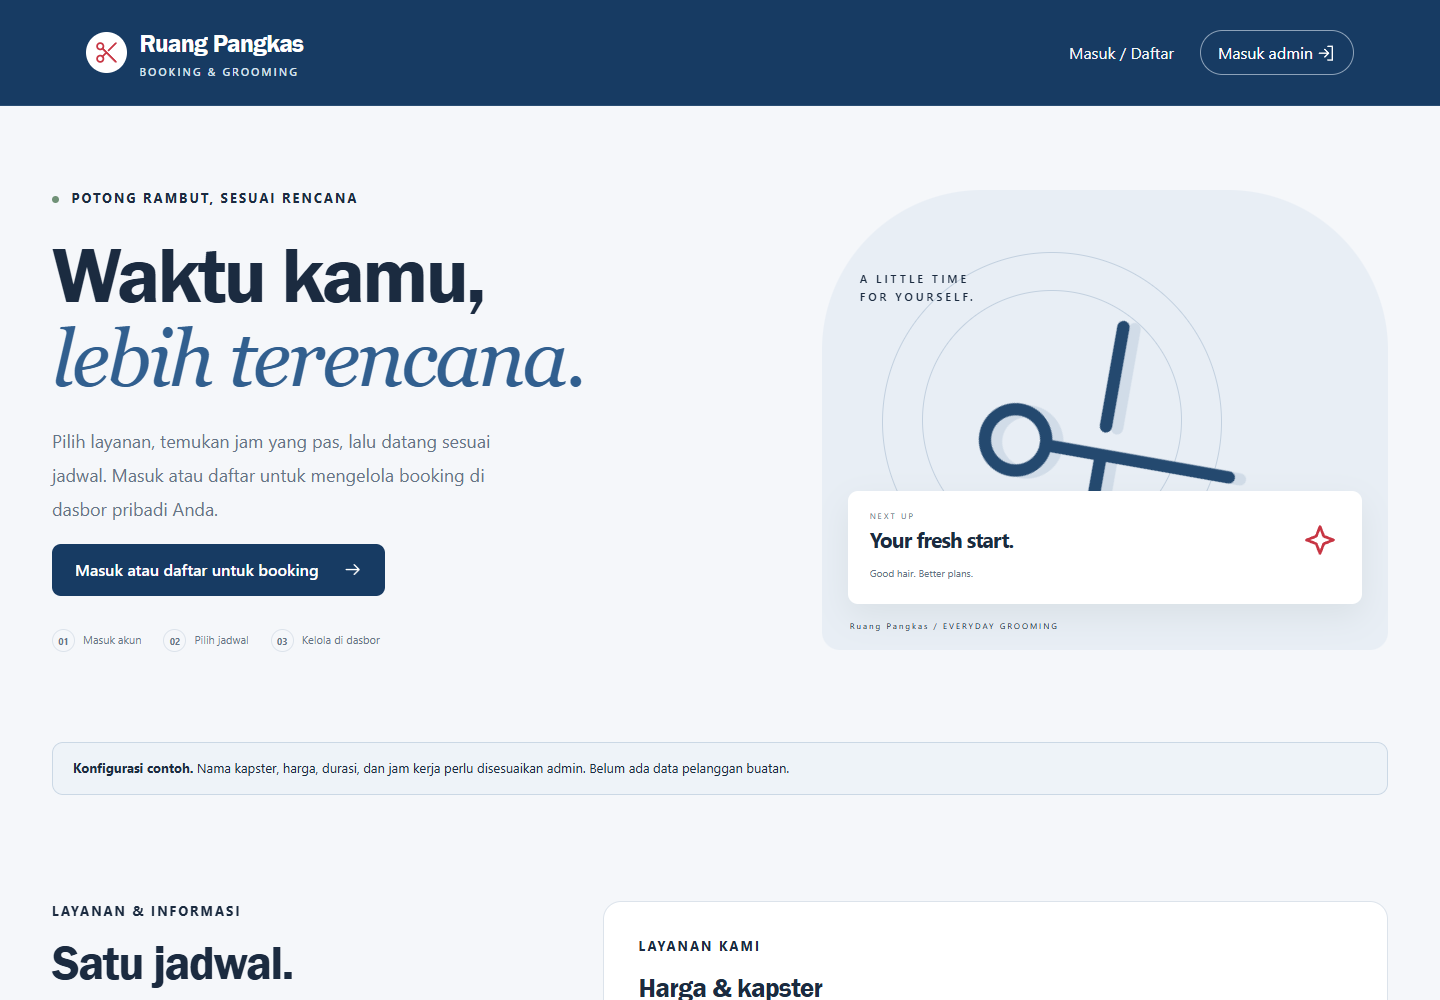
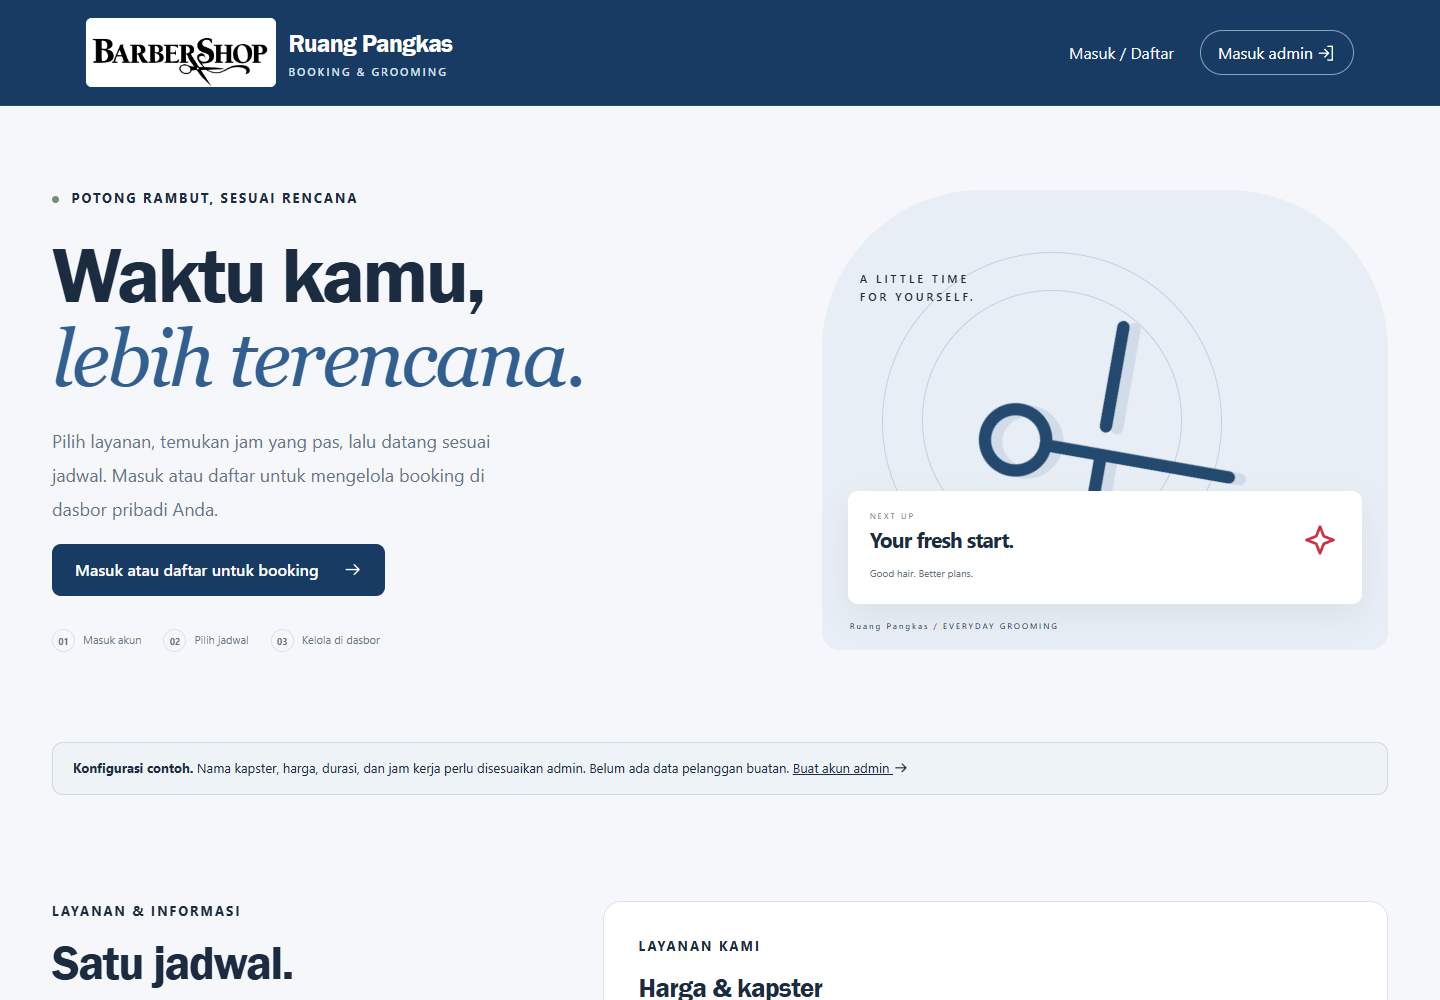
udabh

Changed region(s): [[0.0625, 0.0, 0.3125, 0.093], [0.5625, 0.744, 0.625, 0.775]]

diff --git a/templates/base.html b/templates/base.html
@@ -5,7 +5,7 @@
         <meta charset="utf-8">
         <meta name="viewport" content="width=device-width,initial-scale=1">
         {% if is_admin %}<link rel="manifest" href="{{ url_for('manifest') }}">{% endif %}
-        <title>{% block title %}{{ shop.shop_name }}{% endblock %} · Booking Pangkas</title>
+        <title>{% block title %}{{ shop.shop_name }}{% endblock %} Â· Booking Pangkas</title>
         <link rel="stylesheet" href="{{ url_for('static',filename='style.css',v=asset_version) }}">
         <script src="{{ url_for('static',filename='app.js',v=script_version) }}" defer></script>
     </head>
@@ -15,10 +15,9 @@
             <input type="hidden" name="csrf" value="{{ csrf() }}">
         {% endmacro %}
         <header class="topbar">
-            <a class="brand" href="{{ url_for('home') }}">
-                <span class="brand-mark" aria-hidden="true">{{ icon("scissors") }}</span>
-                <span>{{ shop.shop_name }}<small>BOOKING & GROOMING</small>
-                </span>
+            <a class="brand" href="{{ url_for('home') }}" aria-label="{{ shop.shop_name }} — Beranda">
+                <img class="brand-logo" src="{{ url_for('static', filename='logo-barbershop.png') }}" alt="BarberShop" width="1178" height="422">
+                <span class="brand-name">{{ shop.shop_name }}<small>BOOKING & GROOMING</small></span>
             </a>
             <nav>
                 {% if request.path.startswith('/admin') %}
@@ -53,7 +52,7 @@
                             <span>{{ icon(icon_name) }}</span>{{ label }}</a>
                     {% endfor %}
                     <div class="sidebar-note">
-                        <span class="status-dot"></span> {{ 'Online' if database_online else 'Lokal' }} · WIB
+                        <span class="status-dot"></span> {{ 'Online' if database_online else 'Lokal' }} Â· WIB
                         <p>{{ 'Data tersimpan di Turso.' if database_online else 'Data tersimpan di laptop ini.' }}</p>
                         <small>Email: {{ 'simulasi' if mail_mode=='demo' else 'SMTP' }}</small>
                     </div>
@@ -74,7 +73,7 @@
         <footer>
             <span>{{ shop.shop_name }} <span class="muted">/ Sistem Booking Pangkas Rambut Cerdas</span>
             </span>
-            <span>Proyek Sains Data Industri · Waktu Indonesia Barat</span>
+            <span>Proyek Sains Data Industri Â· Waktu Indonesia Barat</span>
         </footer>
     </body>
 </html>

diff --git a/templates/booking.html b/templates/booking.html
@@ -16,7 +16,7 @@
     <div class="detail-grid">
         <section class="panel booking-ticket">
             <div class="ticket-head">
-                <span class="brand-mark" aria-hidden="true">{{ icon("scissors") }}</span>
+                <img class="ticket-logo" src="{{ url_for('static', filename='logo-barbershop.png') }}" alt="BarberShop" width="1178" height="422">
                 <span class="badge {{ b.status }}">{{ status_labels[b.status] }}</span>
             </div>
             <span class="eyebrow">{{ b.code }}</span>
@@ -89,7 +89,7 @@
                 </form>
             {% else %}
                 <div class="empty-state">
-                    <span>◷</span>
+                    <span>â—·</span>
                     <h3>{{ 'Batas perubahan mandiri sudah lewat' if b.status=='scheduled' else 'Booking sudah diproses' }}</h3>
                     <p>Ubah atau batal mandiri tersedia hanya untuk booking terjadwal, minimal 1 jam sebelum pelayanan.</p>
                 </div>
@@ -163,7 +163,7 @@
                 {% for h in history %}
                     <li>
                         <b>{{ h.action|replace('_', ' ') }}</b>
-                        <span>{{ h.created|when }} · {{ h.actor }}</span>
+                        <span>{{ h.created|when }} Â· {{ h.actor }}</span>
                         {% if h.new_start %}
                             <small>Jadwal: {{ h.new_start|when }}</small>
                         {% endif %}

diff --git a/static/style.css b/static/style.css
@@ -1753,3 +1753,11 @@ body{font-family:"Segoe UI",Arial,sans-serif;font-size:17px}h1,h2,h3,.brand{font
 .notification-item:hover{background:#f5f8fc}.notification-item.is-unread{background:#f0f5fb;border-left-color:#c73543}.notification-item span{font-size:14px}.notification-item small{color:#596b7d}
 .notification-device{display:flex;gap:12px;align-items:center;flex-wrap:wrap;border-top:1px solid #dce4ed;margin-top:20px;padding-top:20px}.notification-device>div{flex:1;min-width:190px}
 @media(max-width:600px){.notification-panel .section-heading{align-items:flex-start;gap:12px;flex-direction:column}.notification-device button{width:100%}.admin-bell{min-width:34px;min-height:34px}}
+
+/* Supplied BarberShop wordmark: preserve its original proportions. */
+.brand-logo,.ticket-logo{display:block;object-fit:contain;background:#fff;border-radius:6px;flex-shrink:0}
+.brand-logo{width:190px;height:auto}
+.ticket-logo{width:150px;height:auto;max-width:55%}
+@media(max-width:1000px){.brand-name{display:none}}
+@media(max-width:760px){.brand-logo{width:140px}.topbar .brand{min-width:0;flex-shrink:0}}
+@media(max-width:380px){.brand-logo{width:105px}.topbar{padding-left:12px;padding-right:12px;gap:8px}.topbar nav{min-width:0}.topbar .nav-pill{padding:10px}}

diff --git a/scripts/build.py b/scripts/build.py
@@ -2,12 +2,12 @@
 from pathlib import Path
 from shutil import copyfile
 
-ROOT = Path(__file__).resolve().parent
+ROOT = Path(__file__).resolve().parent.parent
 
 def main():
     target = ROOT / "public" / "static"
     target.mkdir(parents=True, exist_ok=True)
-    for name in ("style.css", "app.js", "admin-icon.svg"):
+    for name in ("style.css", "app.js", "admin-icon.svg", "logo-barbershop.png"):
         copyfile(ROOT / "static" / name, target / name)
     print("Prepared public frontend assets.")
 

diff --git a/ruang_pangkas/__main__.py b/ruang_pangkas/__main__.py
@@ -1,0 +1,5 @@
+"""Start the local application with python -m ruang_pangkas."""
+from .web import run_local
+
+if __name__ == "__main__":
+    run_local()

diff --git a/README.md b/README.md
@@ -1,12 +1,16 @@
 # Ruang Pangkas
 
+<p>
+<img src="static/logo-barbershop.png" width="280" alt="Logo BarberShop">
+</p>
+
 Sistem booking pangkas rambut berbasis **Python dan Flask**, dengan SQLite untuk penggunaan lokal dan **Turso/libSQL** untuk website di Vercel. Pelanggan dapat memilih layanan, kapster, dan jadwal; admin mengelola booking serta operasional melalui dasbor.
 
 **[Buka aplikasi](https://sistem-booking-pangkas-rambut-cerda.vercel.app/)** · [Panduan deployment](docs/DEPLOYMENT.md) · [Detail fitur dan operasional](docs/FEATURES.md)
 
 ## Tampilan halaman utama
 
-Klik gambar untuk membuka website.
+Pratinjau aplikasi dengan logo **BarberShop** yang baru. Klik gambar untuk membuka website online.
 
 [![Halaman utama Ruang Pangkas pada komputer](docs/images/homepage-desktop.png)](https://sistem-booking-pangkas-rambut-cerda.vercel.app/)
 
@@ -19,7 +23,7 @@ Klik gambar untuk membuka website.
 
 </details>
 
-*Screenshot halaman publik diambil pada 16 November 2026. Nama usaha, layanan, dan harga dapat diubah admin.*
+*Screenshot diambil dari versi lokal terbaru pada 16 November 2026 menggunakan data contoh, tanpa data pelanggan. Tampilan online mengikuti deployment terakhir. Nama usaha, layanan, dan harga dapat diubah admin.*
 
 ## Fitur utama
 
@@ -49,7 +53,7 @@ Pasang **Python 3.12**, buka folder proyek di VS Code, lalu jalankan di terminal
 python -m venv .venv
 .venv\Scripts\python.exe -m pip install -r requirements.txt
 if (-not (Test-Path .env)) { Copy-Item .env.example .env }
-.venv\Scripts\python.exe app.py
+.venv\Scripts\python.exe -m ruang_pangkas
 ```
 
 Sesuaikan `.env` berdasarkan `.env.example`. Tanpa konfigurasi Turso, gunakan database SQLite lokal. Tidak perlu MySQL atau XAMPP.
@@ -85,18 +89,18 @@ Gunakan `.env.example` sebagai acuan lengkap. **Jangan unggah `.env`, token, san
 ```text
 ruang_pangkas/       Logika aplikasi, booking, database, email, dan analisis
 scripts/            Alat pengelolaan admin dan konfigurasi
-static/             CSS, JavaScript, service worker, dan ikon sumber
+static/             CSS, JavaScript, service worker, ikon, dan logo BarberShop
 templates/          Halaman HTML pelanggan dan admin
 tests/              Pengujian aplikasi dan database
 docs/               Panduan, hasil pemeriksaan, dan screenshot
 instance/           Database dan kunci lokal privat, tidak masuk Git
 work/               File privat dan hasil sementara, tidak masuk Git
 public/static/      Aset hasil build, jangan diedit langsung
-app.py              Menjalankan aplikasi lokal
-wsgi.py             Entry point Vercel
+ruang_pangkas/__main__.py  Peluncur aplikasi lokal
+ruang_pangkas/wsgi.py     Entry point Vercel
 ```
 
-Perintah penggantian admin: `python admin_account.py`. Alat ini memakai database yang dikonfigurasi; pastikan tujuan SQLite atau Turso sudah benar. Penjelasan lengkap tersedia di [panduan operasional](docs/FEATURES.md#satu-akun-admin-dan-penggantian-akun).
+Perintah penggantian admin: `python -m scripts.admin_account`. Alat ini memakai database yang dikonfigurasi; pastikan tujuan SQLite atau Turso sudah benar. Penjelasan lengkap tersedia di [panduan operasional](docs/FEATURES.md#satu-akun-admin-dan-penggantian-akun).
 
 ## Pengujian
 
@@ -111,7 +115,7 @@ Pengujian memakai database sementara dan tidak mengirim email sungguhan.
 - Zona waktu **WIB**, slot mulai setiap **15 menit**, dan pemesanan maksimal **60 hari**. Pelanggan dapat mengubah atau membatalkan minimal **60 menit** sebelum jadwal; admin dapat membantu setelah tenggat.
 - Email konfirmasi, perubahan jadwal, dan pembatalan booking online tetap dibuat meskipun pelanggan tidak memilih pengingat. Pengingat merupakan pilihan terpisah.
 - Status email diterima server SMTP belum menjamin masuk Inbox. Periksa **Admin > Pesan Email**, konfigurasi SMTP, dan folder Spam. Booking tetap tersimpan jika pengiriman email gagal.
-- Worker lokal berjalan saat `python app.py` aktif. Pengingat terjadwal di Vercel memerlukan scheduler eksternal yang mengakses `/api/cron/messages` dengan autentikasi `CRON_SECRET`; lihat panduan deployment.
+- Worker lokal berjalan saat `python -m ruang_pangkas` aktif. Pengingat terjadwal di Vercel memerlukan scheduler eksternal yang mengakses `/api/cron/messages` dengan autentikasi `CRON_SECRET`; lihat panduan deployment.
 - Pembayaran dicatat manual. Satu lokasi didukung. Jangan membuka satu file SQLite melalui sinkronisasi OneDrive dari beberapa komputer sekaligus.
 
 ## Dokumentasi

diff --git a/docs/FEATURES.md b/docs/FEATURES.md
@@ -6,7 +6,7 @@ Aplikasi Python + Flask untuk booking pangkas rambut, dengan SQLite saat lokal a
 
 1. Buka folder ini melalui **File > Open Folder**.
 2. Buka **Terminal > New Terminal**.
-3. Jalankan `python app.py`.
+3. Jalankan `python -m ruang_pangkas`.
 4. Buka http://127.0.0.1:5000 untuk pelanggan.
 5. Pelanggan masuk/daftar di `/masuk` (Google atau email+password) lalu booking melalui `/dasbor`.
 6. Buka http://127.0.0.1:5000/setup untuk membuat akun admin pertama (email + password), kemudian atur nama usaha, harga, kapster, jam kerja, dan toleransi.
@@ -17,7 +17,7 @@ Bisa juga klik dua kali **JALANKAN.bat**. Gunakan Python 3.12 sesuai konfigurasi
 ```powershell
 python -m venv .venv
 .venv\Scripts\python.exe -m pip install -r requirements.txt
-.venv\Scripts\python.exe app.py
+.venv\Scripts\python.exe -m ruang_pangkas
 ```
 
 Tidak perlu MySQL atau XAMPP. Untuk F5, gunakan ekstensi Python dan Python Debugger yang direkomendasikan VS Code.
@@ -54,7 +54,7 @@ Tidak perlu MySQL atau XAMPP. Untuk F5, gunakan ekstensi Python dan Python Debug
 - Harga dan durasi disalin ke booking saat dibuat agar transaksi lama tidak berubah ketika tarif diperbarui.
 - Perubahan jam kerja/penonaktifan kapster tidak mengubah booking lama otomatis. Admin perlu memeriksa booking terdampak. Blokir waktu yang menabrak booking aktif ditolak.
 - Pembayaran di tempat dicatat manual. Informasi promo tidak menghitung potongan harga otomatis.
-- Runtime pengingat berjalan di thread setiap 15 detik selama `python app.py` hidup. Menjalankan lewat server WSGI lain belum menyalakan worker; sediakan worker terpisah untuk deployment.
+- Runtime pengingat berjalan di thread setiap 15 detik selama `python -m ruang_pangkas` hidup. Menjalankan lewat server WSGI lain belum menyalakan worker; sediakan worker terpisah untuk deployment.
 - Aplikasi tersedia di Vercel dengan database Turso. Backup terjadwal dan operasi multi-lokasi masih perlu disiapkan.
 
 ## Email (SMTP)
@@ -104,13 +104,12 @@ docs/              Panduan deployment dan hasil pemeriksaan proyek
 instance/           Database SQLite dan kunci lokal (privat, tidak masuk Git)
 work/               File konfigurasi privat dan hasil pengujian sementara
 public/static/      Salinan aset hasil build, jangan diedit langsung
-app.py              Entry point lokal: python app.py
-wsgi.py             Entry point Vercel
+ruang_pangkas/__main__.py  Peluncur lokal: python -m ruang_pangkas
+ruang_pangkas/wsgi.py     Entry point Vercel
 ```
 
-Perintah lama tetap berlaku: `python app.py`, `python admin_account.py`, dan
-`python prepare_vercel_env.py`. Implementasi dua alat terakhir berada di `scripts/`;
-file di root hanya meneruskan perintah. Alternatif: `python -m scripts.admin_account`.
+Jalankan dari folder utama proyek: `python -m ruang_pangkas`, `python -m scripts.admin_account`, dan
+`python -m scripts.prepare_vercel_env`. Semua alat administrasi berada di `scripts/`.
 
 Lihat [hasil pemeriksaan proyek](PROJECT_REVIEW.md) untuk temuan dan prioritas.
 
@@ -128,7 +127,7 @@ Folder proyek berada dalam jalur OneDrive. Jalankan satu salinan database pada s
 
 ## Persiapan hosting
 
-Lihat [panduan deployment](DEPLOYMENT.md). Konfigurasi Vercel, Turso, dan email transaksi tersedia. Pengingat terjadwal membutuhkan scheduler terpisah. Jalankan `python prepare_vercel_env.py` untuk menyiapkan file konfigurasi pribadi.
+Lihat [panduan deployment](DEPLOYMENT.md). Konfigurasi Vercel, Turso, dan email transaksi tersedia. Pengingat terjadwal membutuhkan scheduler terpisah. Jalankan `python -m scripts.prepare_vercel_env` untuk menyiapkan file konfigurasi pribadi.
 
 ## Satu akun admin dan penggantian akun
 
@@ -139,7 +138,7 @@ Untuk mengganti akun, isi `ADMIN_CHANGE_CODE` dalam .env dengan kode acak minima
 `python -c "import secrets; print(secrets.token_hex(32))"`.
 Kode ini berbeda dari password admin, sandi Gmail, dan Client Secret Google.
 
-Jalankan `python admin_account.py` dari terminal server yang menyimpan database.
+Jalankan `python -m scripts.admin_account` dari terminal server yang menyimpan database.
 Masukkan kode khusus, email baru, dan password baru dua kali. Kode khusus terlihat agar mudah ditempel; jangan bagikan layar terminal. Password
 tetap disembunyikan saat diketik. Akun lama diperbarui, bukan menambah akun kedua.
 Sesi lama dibatalkan pada request berikutnya, termasuk jika email tidak berubah.

diff --git a/docs/DEPLOYMENT.md b/docs/DEPLOYMENT.md
@@ -7,16 +7,16 @@ Database lokal, .env, dan kredensial tidak dipindahkan otomatis.
 
 ## File hosting
 
-- `wsgi.py`: entry point Flask tanpa server lokal dan tanpa thread pengingat.
-- `pyproject.toml`: Python 3.12 dan entry point Vercel `wsgi:app`.
+- `ruang_pangkas/wsgi.py`: entry point Flask tanpa server lokal dan tanpa thread pengingat.
+- `pyproject.toml`: Python 3.12 dan entry point Vercel `ruang_pangkas.wsgi:app`.
 - `.vercelignore`: mengecualikan rahasia, database, backup, dan file lokal dari upload CLI.
 - `.gitignore`: mengecualikan rahasia dan cadangan dari commit berikutnya.
-- `build.py`: menyalin hanya CSS dan JavaScript ke public/static untuk CDN.
+- `scripts/build.py`: menyalin hanya CSS dan JavaScript ke public/static untuk CDN.
 - `vercel.json`: durasi fungsi maksimal 60 detik.
-- `prepare_vercel_env.py`: membuat work/vercel.env pribadi untuk import konfigurasi.
+- `scripts/prepare_vercel_env.py`: membuat work/vercel.env pribadi untuk import konfigurasi.
 
 Tidak perlu konfigurasi `builds` atau `rewrites` lama di vercel.json.
-Perilaku lokal tetap dijalankan lewat `python app.py`.
+Perilaku lokal tetap dijalankan lewat `python -m ruang_pangkas`.
 
 ## 1. Database permanen (langkah berikutnya)
 
@@ -66,7 +66,7 @@ Jangan mengganti SECRET_KEY setiap request atau setiap startup.
 Cookie sesi otomatis menggunakan Secure ketika PUBLIC_BASE_URL memakai HTTPS.
 Gunakan database dan rahasia terpisah untuk Preview dan Production.
 
-Jalankan `python prepare_vercel_env.py`. Pada pengaturan Environment Variables
+Jalankan `python -m scripts.prepare_vercel_env`. Pada pengaturan Environment Variables
 Vercel, import file `work/vercel.env` (atau salin isinya hanya ke formulir Vercel).
 File ini berisi rahasia asli: jangan kirim ke chat atau commit ke GitHub.
 PUBLIC_BASE_URL dan GOOGLE_REDIRECT_URI lokal sengaja tidak disertakan.
@@ -142,6 +142,6 @@ mock. Jangan mengklaim pengiriman OS sudah diuji hanya karena tes otomatis lulus
 ## Lokasi kode setelah perapian
 
 Kode aplikasi berada di ruang_pangkas/, HTML di templates/, dan aset di static/.
-Entry point Vercel tetap wsgi:app. build.py tetap berada di root sesuai pyproject.toml.
-Perintah lokal python app.py dan python admin_account.py tetap didukung melalui
-entry point tipis; alat administrasi sebenarnya berada di scripts/.
+Entry point Vercel adalah ruang_pangkas.wsgi:app. Build menggunakan
+python -m scripts.build. Jalankan lokal dengan python -m ruang_pangkas;
+alat administrasi menggunakan python -m scripts.admin_account.

diff --git a/docs/PROJECT_REVIEW.md b/docs/PROJECT_REVIEW.md
@@ -50,9 +50,9 @@ Jalankan dari root:
 
 ```powershell
 python -m unittest discover -s tests -v
-python app.py
-python admin_account.py --help
-python build.py
+python -m ruang_pangkas
+python -m scripts.admin_account --help
+python -m scripts.build
 ```
 
 ## Lokasi berkas
@@ -67,5 +67,5 @@ python build.py
 - [Analisis](../ruang_pangkas/analytics.py)
 
 .env, instance/, dan work/ tetap privat. public/static/ adalah hasil build; ubah aset
-sumber di static/, kemudian jalankan build.py. Entry point root yang tipis dipertahankan
-agar perintah lama tetap dapat digunakan.
+sumber di static/, kemudian jalankan python -m scripts.build. Semua file Python
+berada di ruang_pangkas/, scripts/, atau tests/.
